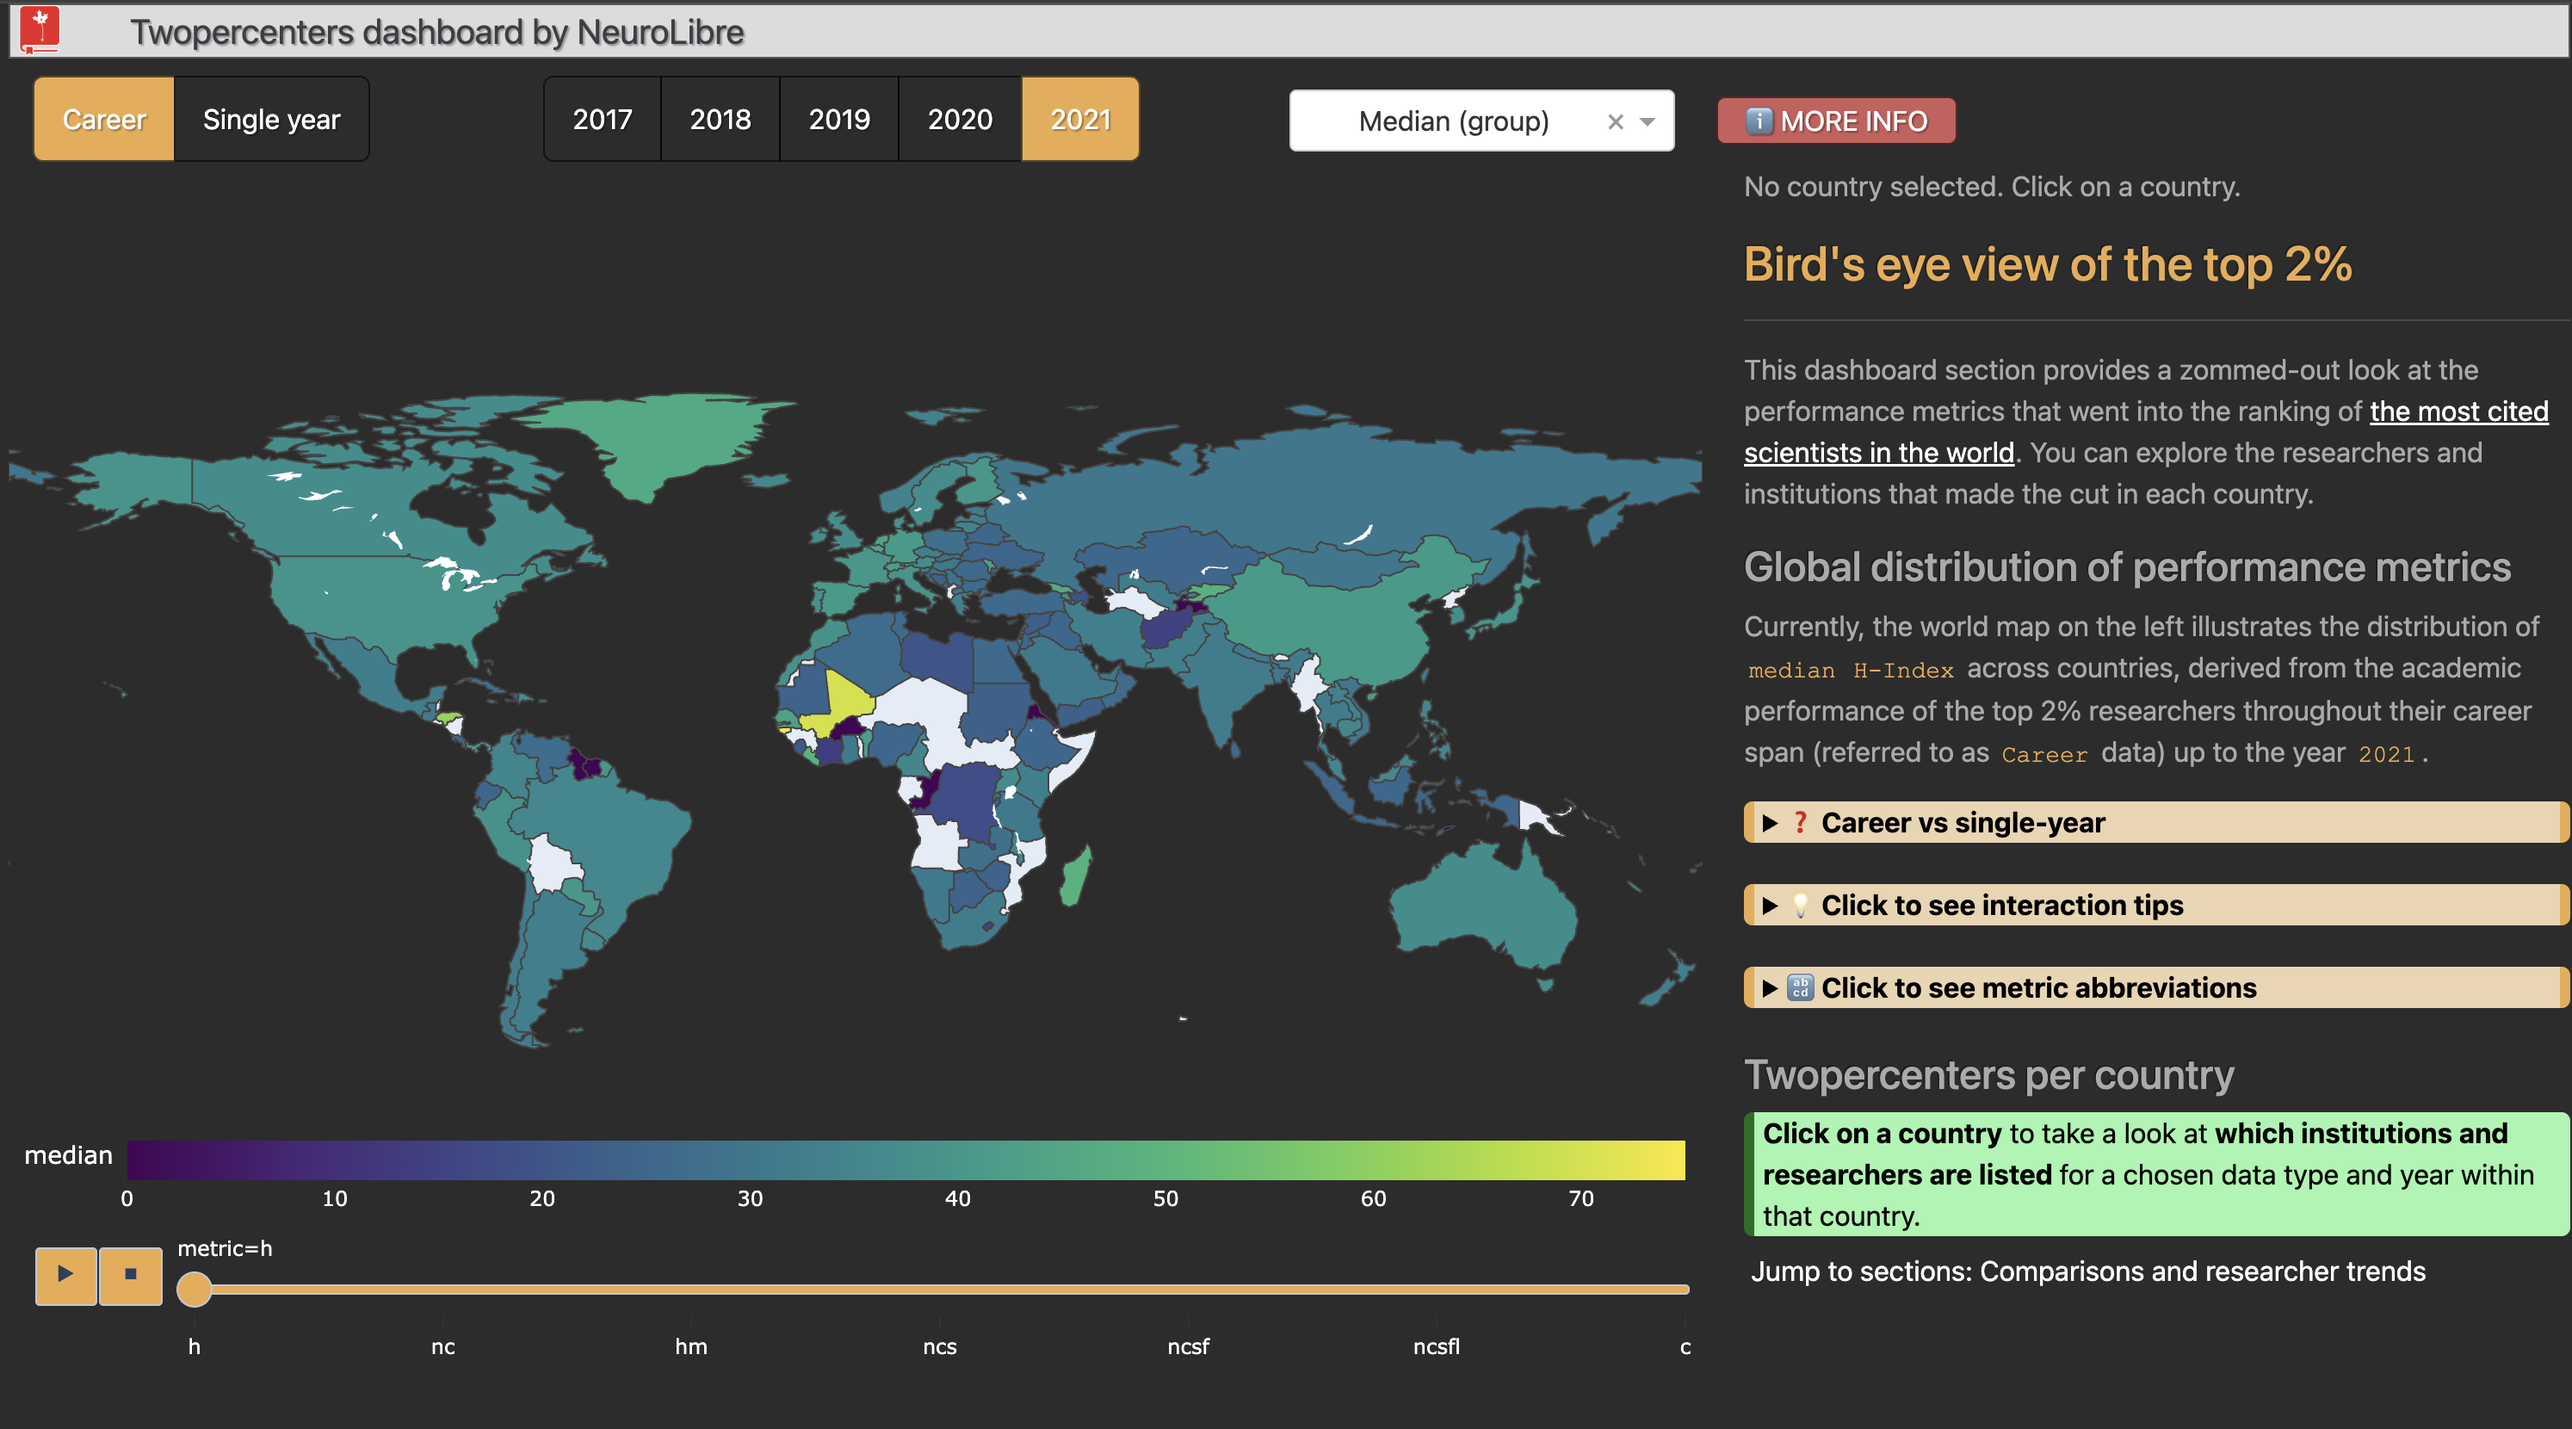
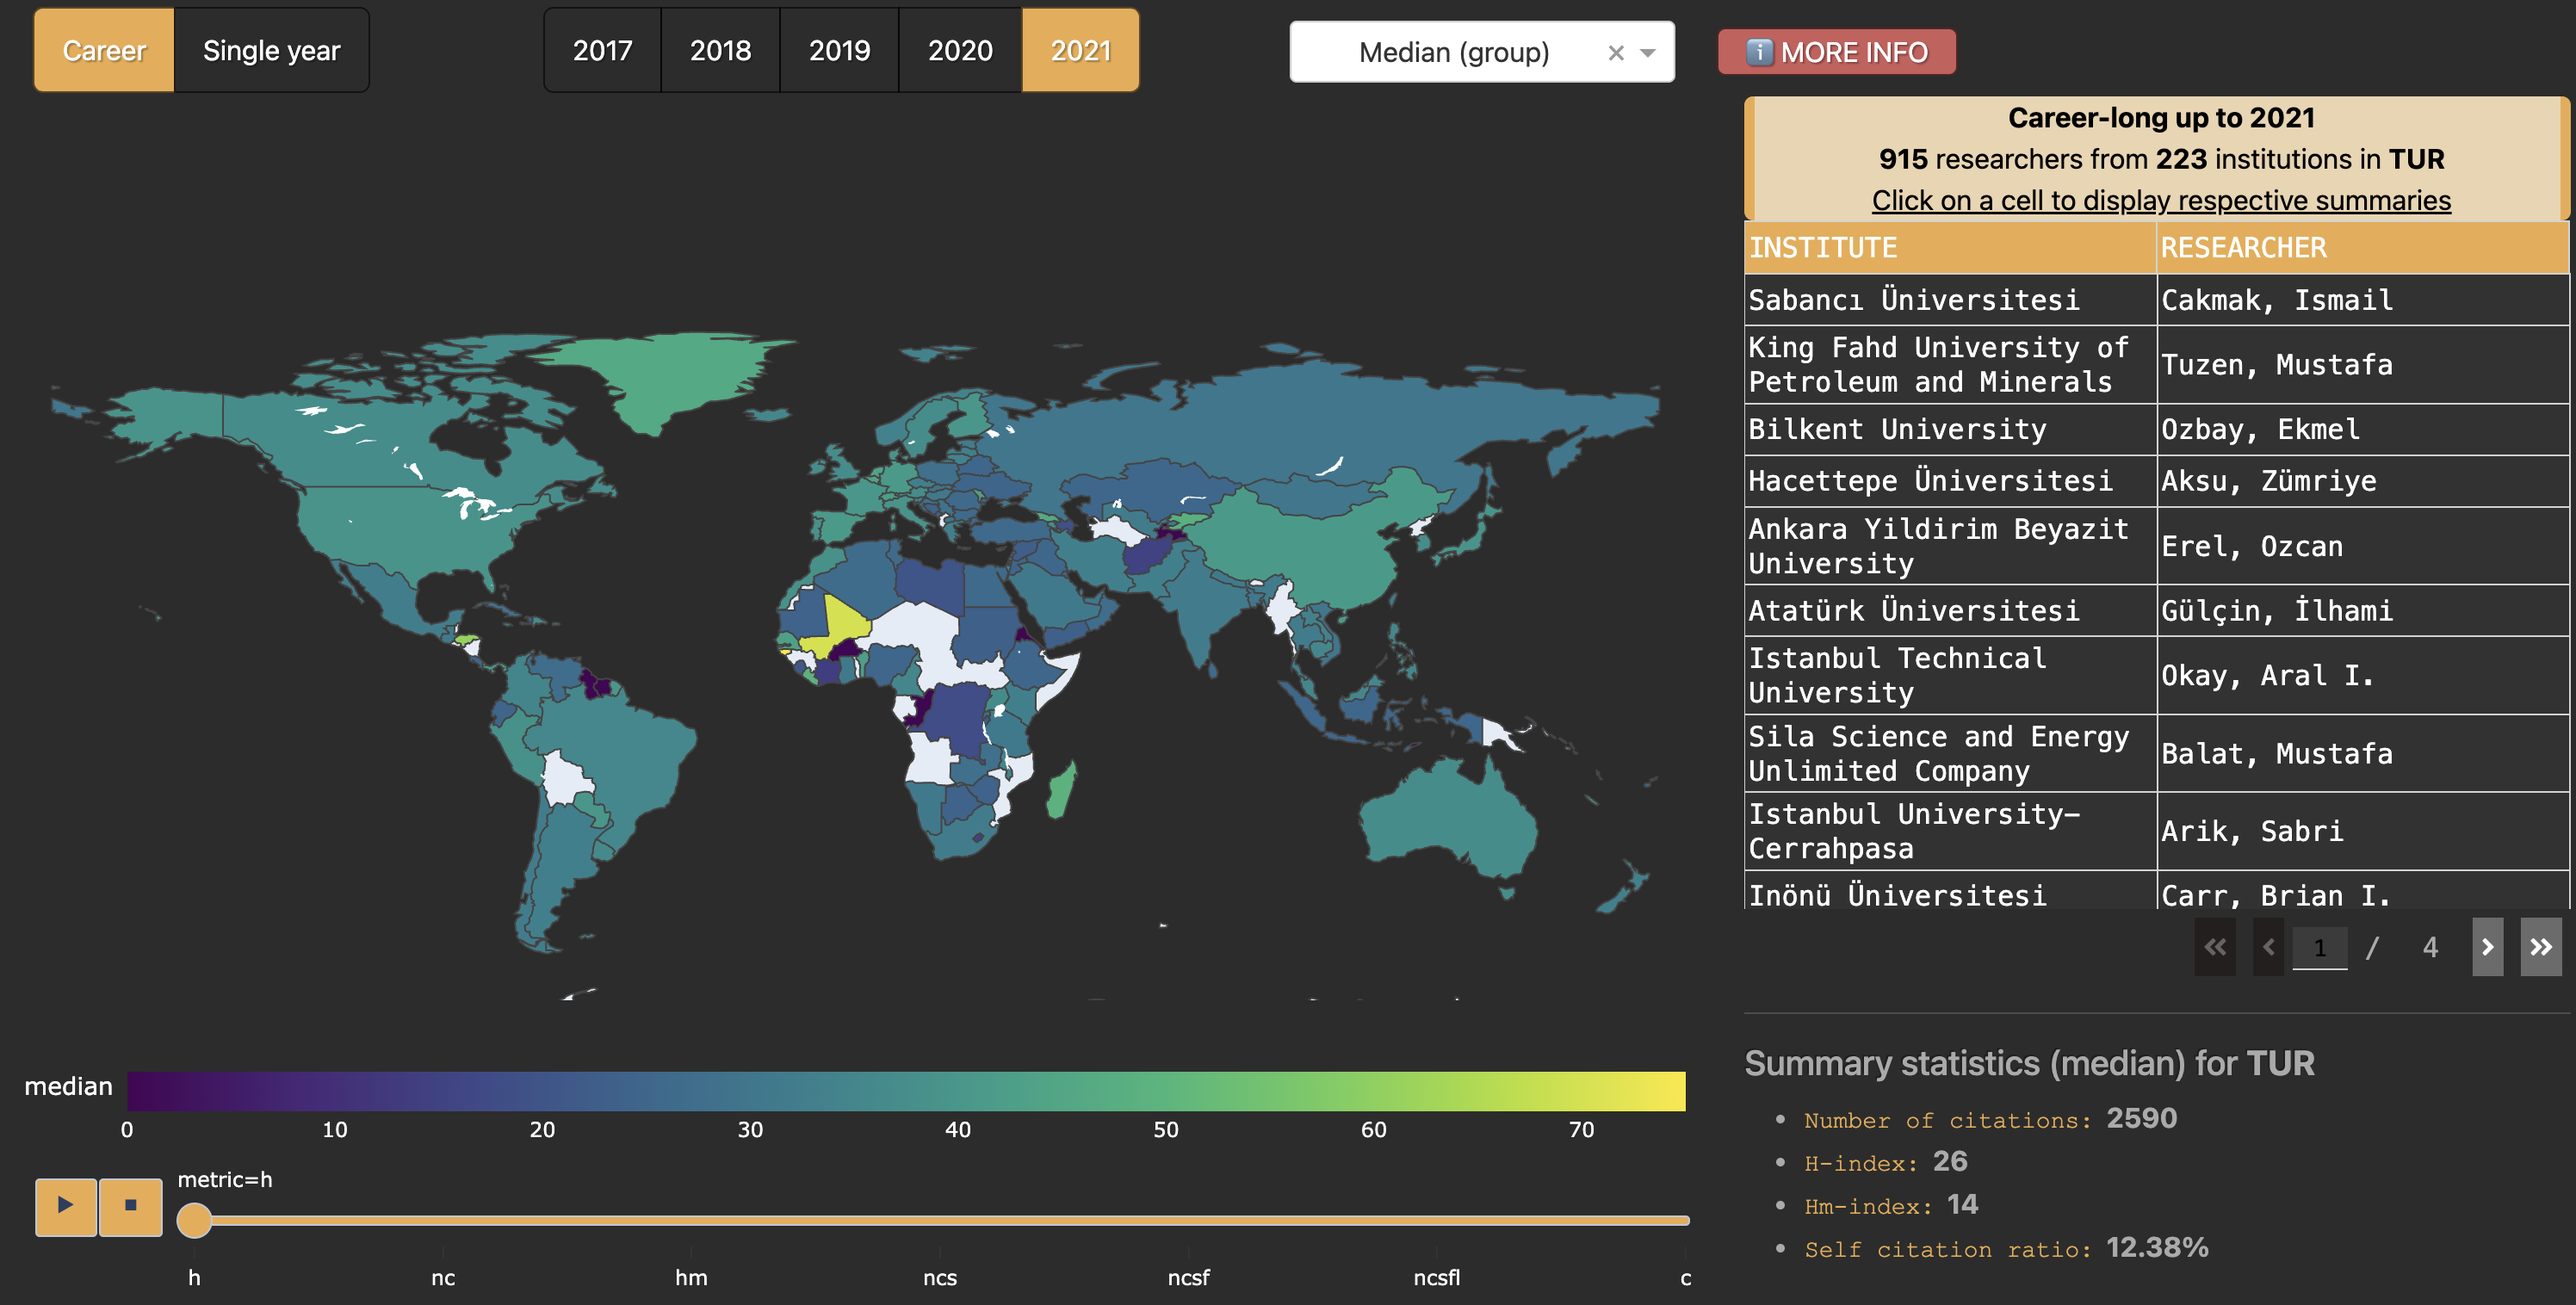
Add content

diff --git a/paper.md b/paper.md
@@ -9,6 +9,17 @@ tags:
 date: 17 September 2025
 ---
 
++++ { "part": "abstract" }
+We built an interactive dashboard to explore citation data from the standardized citation indicators dataset covering 100,000 top-cited
+researchers across 22 disciplines. The system uses Elasticsearch for search
+and Plotly Dash for visualization, allowing users to compare researchers,
+institutions, countries, and fields through various bibliometric metrics.
+Users can toggle between career-long and single-year data, exclude
+self-citations, and examine temporal trends. The platform runs on open-source infrastructure and provides an alternative interface for bibliometric analysis. All code and deployment configurations are publicly available, enabling others to replicate or modify the system for their own datasets.
+
++++
+
+
 # Introduction
 
 To date, citations to scholarly articles have served as the primary currency for attributing credibility to their authors. From the academic job market to research funding decisions, citation counts and related metrics remain central indicators shaping outcomes. Google Scholar, a citation-based search engine, has become the dominant gateway to explore articles, author profiles and evaluative bibliography, largely because it is free and user-friendly [](https://doi.org/10.2139/ssrn.2921021).
@@ -29,6 +40,10 @@ First released in 2019, this dataset encompasses the 100,000 most cited authors 
 Here, we aimed at demonstrating how community-hosted open-source tools can provide robust alternatives to commercial bibliometric platforms Specifically, we developed an interactive dashboard that transforms complex tabular citation data into an accessible platform with advanced search capabilities and multiple analytical perspectives for exploring and comparing research impact metrics across authors, institutions, countries, and scientific fields.
 
 # Methods
+
+We designed and implemented a data processing and visualization pipeline to transform the standardized citation indicators dataset into an interactive web-based dashboard. Our approach prioritized open-source tools, reproducible infrastructure, and scalable deployment to demonstrate how community-hosted platforms can effectively serve large-scale bibliometric data. 
+
+The diagram below illustrates the complete system architecture, from raw data ingestion through to user-facing analytical interfaces.
 
 :::{mermaid}
 graph TD
@@ -108,18 +123,36 @@ All source code, configuration files, and deployment scripts were made freely av
 
 # Results
 
-
 :::{figure} ./content/img/fig1.png
-Caption goes here.
+:label: fig1
+Global distribution of research excellence metrics (snapshot displays median h-index for career-long data from 2021) among top 2% scientists by country, as visualized on a world map. The right panel shows the ranking of institutions from an examplary selection (Turkey).
 :::
+
+The default state of [Figure 1](#fig1) displays median H-index values across countries, derived from career-span academic performance data of the most cited researchers worldwide in 2021. Color scale represents median H-index from 0 (purple) to 70+ (yellow), with darker regions indicating lower citation impact and brighter regions showing higher research productivity. This page enables exploration of all the metrics that go into the calculation of the c-score (slider), as well as the selection of different statistics (dropdown). This panel also allows exploration of country-specific institutional rankings when clicked on the respective country, determined by the affiliation of the researchers who made the cut.
+
+---
+::::{seealso} Click here to interact with the dashboard inline
+:class: dropdown
+:::{iframe} https://twopercenters.db.neurolibre.org/
+:width: 100%
+:::
+::::
+
+{button}`Click here to open the dashboard in a new tab<https://twopercenters.db.neurolibre.org/>`
+
+---
 
 :::{figure} ./content/img/fig2.png
-Caption goes here.
+Individual researcher performance panel showing example bibliometric analysis for John P.A. Ioannidis. (a) Summary metrics panel displaying composite score (5.19) and key bibliometric indicators including total citations (88.6K), H-index (132), and HM-index (66.9), with corresponding percentile rankings and citation distributions across single-authored and collaborative works. (b) Temporal trends comparing career-long versus single-year performance trajectories from 2017-2021, showing rank progression, composite scores, total citations, and H-index evolution for both assessment periods. Both panels enable the exclusion of self-citations from the calculation of these metrics. 
 :::
 
+[Figure 2](#fig2) presents a multifaceted research impact assessment through both aggregate career metrics and year-specific performance indicators. A key feature includes the option to exclude self-citations, allowing users to examine how researcher rankings change when self-referential patterns are removed from the analysis. The temporal comparison between career-long and single-year data reveals how annual fluctuations in citation patterns contrast with the stability of cumulative metrics. This dual-perspective approach enables more objective evaluation of researcher trajectories, particularly valuable for understanding sustained versus ephemeral impact in scholarly productivity assessments.
+
 :::{figure} ./content/img/fig3.png
-Caption goes here.
+Comparative bibliometric analysis dashboard featuring multi-researcher and group-level performance metrics. (a) Author-vs-author comparison between researchers showing composite scores and citation distributions, (b) Author-vs-group analysis displaying individual performance against field averages (41,350 authors in Clinical Medicine), (c) Group-vs-group comparison between research fields and countries with statistical distributions, and (d) Supporting infrastructure logos and QR code to https://twopercenters.db.neurolibre.org.
 :::
+
+[Figure 3](#fig3) demonstrates comparison options across multiple organizational levels, from individual researchers to entire research fields and national systems. The panels allow users to toggle between career-span and single-year metrics while maintaining the option to exclude self-citations for more objective assessments. Statistical visualizations include box plots and distribution analyses that reveal performance variability within groups, providing context for individual achievements relative to peer cohorts. This multi-scale approach supports evidence-based evaluation of research impact across institutional, national, and disciplinary boundaries
 
 # Conclusion
 
@@ -128,3 +161,11 @@ Our dashboard transforms dense citation tables into an interactive platform wher
 The infrastructure we've outlined—Elasticsearch for search, Plotly Dash for visualization, and container-based deployment—represents a practical blueprint for community-driven scholarly tools. It's not revolutionary tech, but it doesn't need to be. Sometimes the most powerful solution is simply taking control of your own data and tools.
 
 As AI reshapes how we discover and consume research, having transparent, community-controlled alternatives becomes even more critical. The next iteration of our effort will extend the dashboard with the latest dataset releases and evolve the platform to serve as a programmatic API, enabling researchers to access citation metrics directly from their scripts and applications. This will further democratize access to bibliometric data and support the development of custom analytical tools built on open infrastructure.
+
++++ { "part": "acknowledgement" }
+Hosting was provided by NeuroLibre, a next-generation publication platform funded by the Canadian Open Neuroscience Platform, Brain Canada, Quebec Bioimaging Network, and Institut TransMedTech at Polytechnique Montréal.
++++
+
++++ { "part": "data_availability" }
+The original dataset has been made available by [](https://doi.org/10.1371/journal.pbio.3000384) at https://elsevier.digitalcommonsdata.com/datasets/btchxktzyw/7. 
++++
